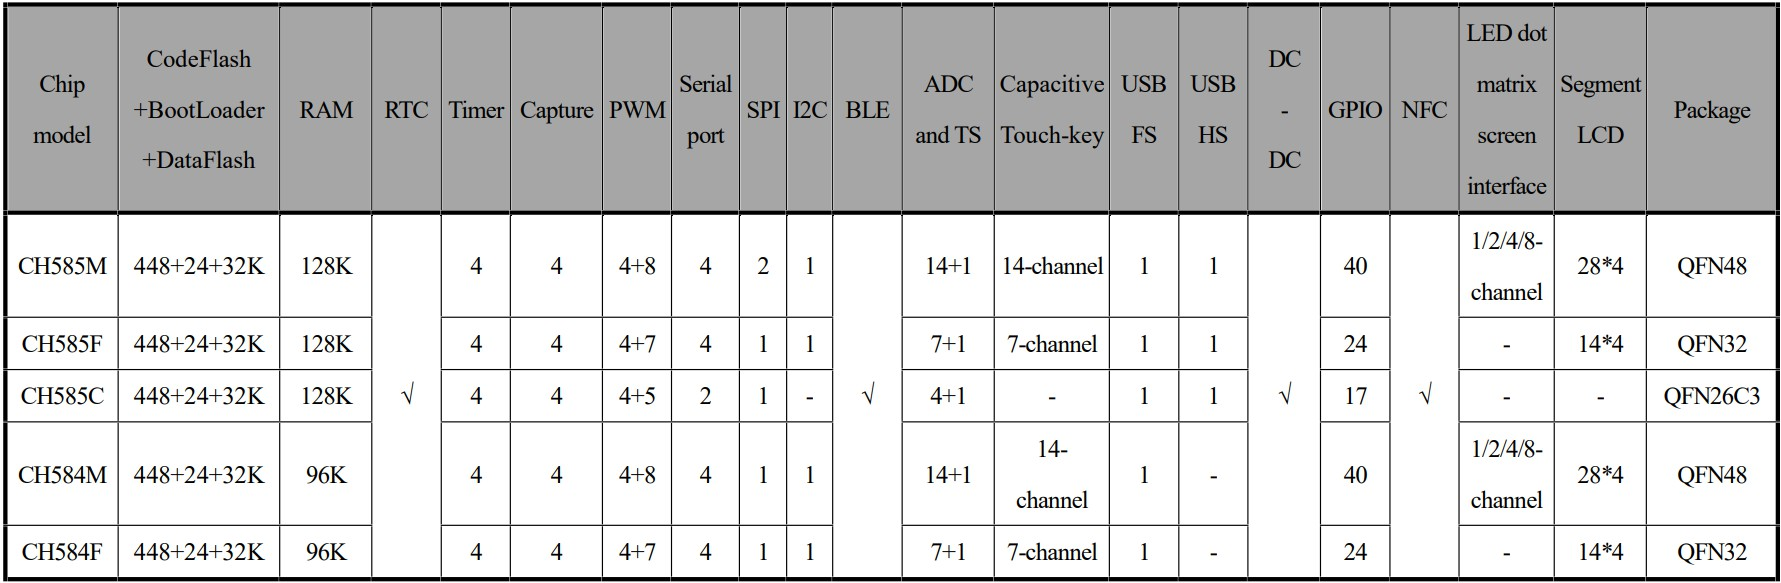
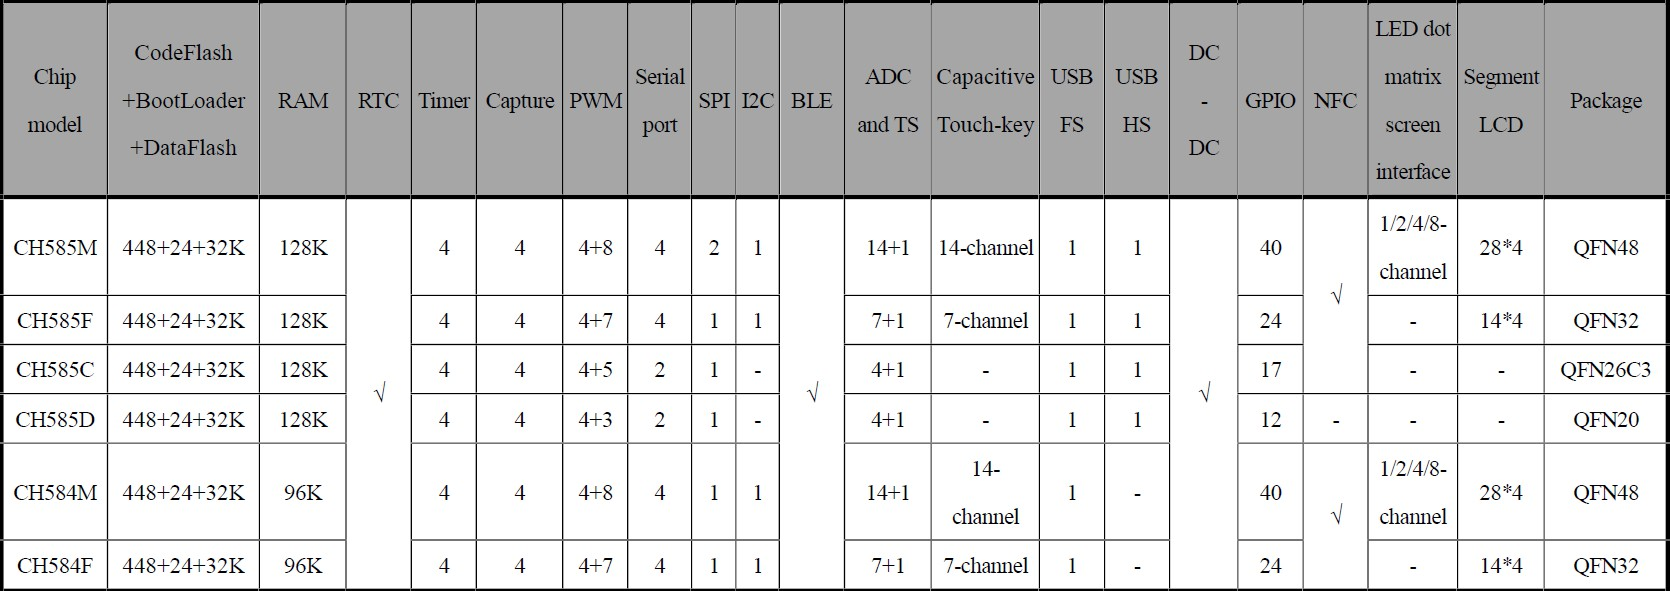
Update the description of CH585

diff --git a/README.md b/README.md
@@ -52,7 +52,7 @@ CH585 is a RISC-V MCU microcontroller that integrates BLE wireless communication
 
  - AES-128 encryption and decryption, unique chip ID
 
- - Package: QFN48T, QFN32, QFN26C3
+ - Package: QFN48T, QFN32, QFN26C3, QFN20
 
  ### Product Selection Guide
 
